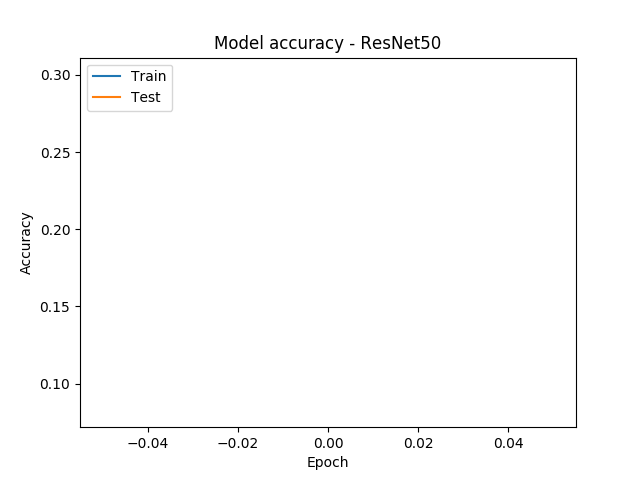
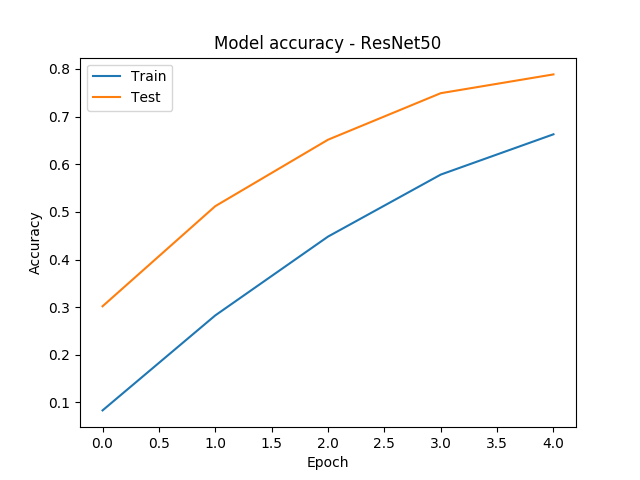
fix bug ploting loss and accu

diff --git a/ssl_satellital/utils_general.py b/ssl_satellital/utils_general.py
@@ -12,10 +12,10 @@ def read_yaml(yml_path):
     return dataMap
 
 def save_plots(history, kfold, iteracion, architecture, pipeline):
-    # Plot training & validation accuracy values
     os.makedirs(pipeline["save_fig_path"], exist_ok=True)
     ID = pipeline['id']
 
+    # Plot training & validation accuracy values
     plt.plot(history.history['acc'])
     plt.plot(history.history['val_acc'])
     plt.title('Model accuracy - {}'.format(architecture))
@@ -26,6 +26,7 @@ def save_plots(history, kfold, iteracion, architecture, pipeline):
     save_fig_name = f"exp_{ID:02d}_accu_{kfold:02d}_{iteracion:02d}_{architecture}.png"
     save_fig_accu = os.path.join(pipeline["save_fig_path"] , save_fig_name)
     plt.savefig(save_fig_accu)
+    plt.clf()
 
     # Plot training & validation loss values
     plt.plot(history.history['loss'])
@@ -37,7 +38,8 @@ def save_plots(history, kfold, iteracion, architecture, pipeline):
     save_fig_name = f"exp_{ID:02d}_loss_{kfold:02d}_{iteracion:02d}_{architecture}.png"
     save_fig_loss = os.path.join(pipeline["save_fig_path"] , save_fig_name)
     plt.savefig(save_fig_loss)
-
+    plt.clf()
+    
 def save_logs(logs, log_type, pipeline):
     ID = pipeline['id']
     save_path = pipeline['save_path_logs']
